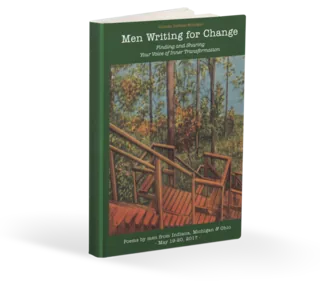
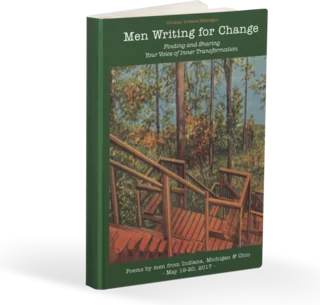
Trim the two Men Writing for Change mockup covers, drop the double shadow

Changed region(s): [[0.125, 0.0, 0.8438, 0.979]]

diff --git a/public/styles/base.css b/public/styles/base.css
@@ -170,6 +170,8 @@ section{padding-block:clamp(3rem,7vw,5.5rem)}
 .cover{margin:0}
 .cover img{display:block;width:100%;height:auto;border-radius:2px;
            box-shadow:0 1px 2px rgba(23,19,15,.10), 0 8px 22px -10px rgba(23,19,15,.35)}
+/* 3D mockups carry their own baked-in shadow; a second one reads as a card */
+.cover.is-mockup img{box-shadow:none;border-radius:0;mix-blend-mode:multiply}
 .cover-lg{max-width:22rem;margin-inline:auto}
 @media (min-width:52rem){.cover-lg{margin-inline:0}}
 
